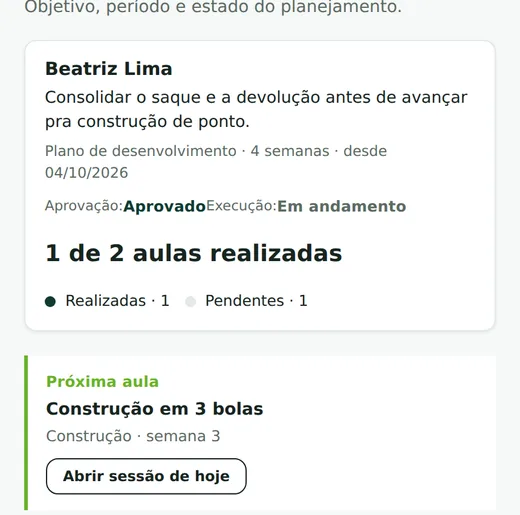
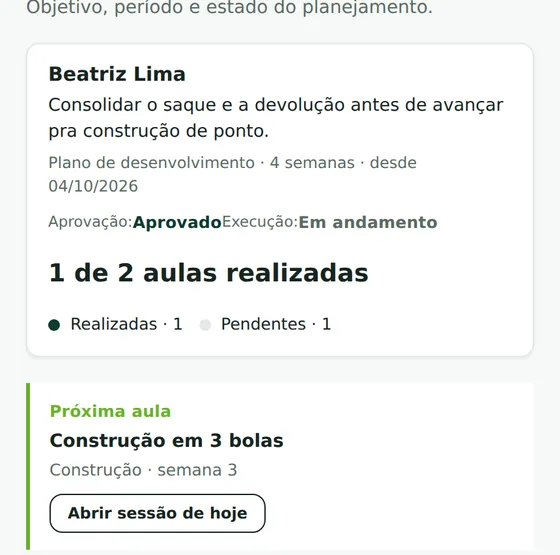
Hub: quadra ilustrada na abertura, telas reais em cada produto e ajustes das imagens
Claude-Session: https://claude.ai/code/session_01Tx4xHd7v5bcyt8Hsc2Wpr1

diff --git a/autonomo/hub/index.html b/autonomo/hub/index.html
@@ -69,11 +69,36 @@
         </div>
       </div>
       <div class="abertura-telas" aria-hidden="true">
-        <img class="tela-a" src="/hub/img/tela-hero-player.webp" width="360" height="735" alt="" decoding="async">
-        <img class="tela-b" src="/hub/img/tela-hero-comp.webp" width="360" height="779" alt="" decoding="async">
+        <svg class="quadra" viewBox="0 0 780 360" preserveAspectRatio="xMidYMid slice" aria-hidden="true" focusable="false">
+          <g fill="none" stroke-linecap="round" stroke-linejoin="round">
+            <rect class="l" x="4" y="4" width="772" height="352"/>
+            <line class="l" x1="4" y1="49" x2="776" y2="49"/><line class="l" x1="4" y1="311" x2="776" y2="311"/>
+            <line class="l" x1="180" y1="49" x2="180" y2="311"/><line class="l" x1="600" y1="49" x2="600" y2="311"/>
+            <line class="l" x1="180" y1="180" x2="600" y2="180"/>
+            <line class="rede" x1="390" y1="-6" x2="390" y2="366"/>
+            <path class="rota" d="M120 276 C 250 40, 470 20, 668 118"/>
+            <circle class="bola" cx="668" cy="118" r="11"/>
+          </g>
+        </svg>
+        <img class="tela-a" src="/hub/img/tela-player-inicio.webp" width="380" height="775" alt="" decoding="async">
+        <img class="tela-b" src="/hub/img/tela-comp-temporada.webp" width="380" height="822" alt="" decoding="async">
       </div>
     </div>
   </section>
+
+  <div class="faixa-quadra" aria-hidden="true">
+    <svg class="quadra faixa" viewBox="0 0 780 360" preserveAspectRatio="xMidYMid slice" aria-hidden="true" focusable="false">
+          <g fill="none" stroke-linecap="round" stroke-linejoin="round">
+            <rect class="l" x="4" y="4" width="772" height="352"/>
+            <line class="l" x1="4" y1="49" x2="776" y2="49"/><line class="l" x1="4" y1="311" x2="776" y2="311"/>
+            <line class="l" x1="180" y1="49" x2="180" y2="311"/><line class="l" x1="600" y1="49" x2="600" y2="311"/>
+            <line class="l" x1="180" y1="180" x2="600" y2="180"/>
+            <line class="rede" x1="390" y1="-6" x2="390" y2="366"/>
+            <path class="rota" d="M120 276 C 250 40, 470 20, 668 118"/>
+            <circle class="bola" cx="668" cy="118" r="11"/>
+          </g>
+        </svg>
+  </div>
 
   <section class="escolha" id="plataformas" aria-labelledby="titulo-plataformas">
     <div class="miolo">
@@ -115,6 +140,7 @@
           <h3>Entre em quadra com um plano.</h3>
           <p class="desc">Transforme suas características em uma estratégia de jogo e dê mais direção ao que você treina.</p>
         </div>
+        <figure class="produto-tela"><img src="/hub/img/tela-player-jogadas.webp" width="420" height="857" alt="Tela de jogadas do QuadraLab Player, com a sequência de golpes e quando usar" loading="lazy"><figcaption>Jogadas do Player (demonstração)</figcaption></figure>
         <div class="produto-corpo">
           <details class="beneficios">
             <summary>O que você encontra</summary>
@@ -141,6 +167,7 @@
           <h3>Seu olhar. Um plano para cada aluno.</h3>
           <p class="desc">Organize jogadores, prepare suas aulas e acompanhe cada ciclo com o seu olhar profissional.</p>
         </div>
+        <figure class="produto-tela"><img src="/hub/img/tela-treinador-planejamento.webp" width="560" height="555" alt="Tela de planejamento do QuadraLab Treinador, com as aulas realizadas e a próxima aula" loading="lazy"><figcaption>Planejamento do Treinador (demonstração)</figcaption></figure>
         <div class="produto-corpo">
           <details class="beneficios">
             <summary>O que você encontra</summary>
@@ -166,6 +193,7 @@
           <h3>Do calendário à preparação.</h3>
           <p class="desc">Organize sua temporada e acompanhe treinos e partidas com quem conhece o seu jogo.</p>
         </div>
+        <figure class="produto-tela"><img src="/hub/img/tela-comp-partida.webp" width="420" height="909" alt="Tela de partida do QuadraLab Competição, com dificuldades e pontos positivos" loading="lazy"><figcaption>Partida no Competição (demonstração)</figcaption></figure>
         <div class="produto-corpo">
           <details class="beneficios">
             <summary>O que você encontra</summary>
@@ -212,7 +240,7 @@
           <div class="painel-acao"><a class="botao botao-player" href="/player/">Conhecer o Player</a></div>
         </div>
         <div class="telas">
-          <figure class="tela"><img src="/hub/img/tela-player-inicio.webp" width="380" height="775" alt="Tela inicial do QuadraLab Player, com o próximo treino e a estratégia escolhida" loading="lazy"><figcaption>Início do Player</figcaption></figure>
+          <figure class="tela"><img src="/hub/img/tela-player-treinos.webp" width="380" height="775" alt="Tela de treinos do QuadraLab Player, com o próximo treino e os programas" loading="lazy"><figcaption>Treinos</figcaption></figure>
           <figure class="tela"><img src="/hub/img/tela-player-estrategias.webp" width="380" height="775" alt="Tela de estratégias do QuadraLab Player" loading="lazy"><figcaption>Estratégias</figcaption></figure>
         </div>
       </div>
@@ -228,7 +256,7 @@
           <div class="painel-acao"><a class="botao botao-treinador" href="/treinador">Conhecer o Treinador</a></div>
         </div>
         <div class="telas">
-          <figure class="tela larga"><img src="/hub/img/tela-treinador-planejamento.webp" width="520" height="515" alt="Tela de planejamento do QuadraLab Treinador, com as aulas realizadas e a próxima aula" loading="lazy"><figcaption>Planejamento do jogador</figcaption></figure>
+          <figure class="tela larga"><img src="/hub/img/tela-treinador-exercicios.webp" width="560" height="515" alt="Tela de sessão do QuadraLab Treinador, com os exercícios do aquecimento" loading="lazy"><figcaption>Sessão com os exercícios</figcaption></figure>
         </div>
       </div>
 
@@ -243,7 +271,7 @@
           <div class="painel-acao"><a class="botao botao-competicao" href="/competicao/">Conhecer o Competição</a></div>
         </div>
         <div class="telas">
-          <figure class="tela"><img src="/hub/img/tela-comp-temporada.webp" width="380" height="822" alt="Tela de temporada do QuadraLab Competição, com os próximos torneios" loading="lazy"><figcaption>Temporada</figcaption></figure>
+          <figure class="tela"><img src="/hub/img/tela-comp-hero.webp" width="380" height="822" alt="Tela inicial do QuadraLab Competição, com a contagem para o próximo torneio" loading="lazy"><figcaption>Início do Competição</figcaption></figure>
           <figure class="tela"><img src="/hub/img/tela-comp-semana.webp" width="380" height="822" alt="Tela de planejamento semanal do QuadraLab Competição" loading="lazy"><figcaption>Planejamento da semana</figcaption></figure>
         </div>
       </div>

diff --git a/autonomo/hub/hub.css b/autonomo/hub/hub.css
@@ -89,10 +89,17 @@ a { color: inherit; }
 .abertura h1 { font-size: clamp(3rem, 5vw, 4.25rem); line-height: 1.07; letter-spacing: -0.025em; margin-bottom: var(--e2); }
 .abertura .texto { font-size: 1.2rem; line-height: 1.6; color: var(--texto); max-width: 33ch; }
 .chamadas { display: flex; align-items: center; flex-wrap: wrap; gap: 8px 24px; margin-top: var(--e3); }
-.abertura-telas { position: relative; height: 530px; }
+.abertura-telas { position: relative; height: 560px; }
+.quadra { width: 100%; height: auto; display: block; border-radius: 14px; background: #e2eadb; }
+.quadra .l { stroke: #fff; stroke-width: 3; }
+.quadra .rede { stroke: #fff; stroke-width: 4; stroke-dasharray: 3 8; }
+.quadra .rota { stroke: var(--tinta); stroke-width: 3; stroke-dasharray: 9 9; opacity: .75; }
+.quadra .bola { fill: #fff; stroke: var(--tinta); stroke-width: 3; }
+.abertura-telas .quadra { position: absolute; left: 0; right: 0; top: 30px; width: 100%; height: 470px; }
+.faixa-quadra { display: none; }
 .abertura-telas img { position: absolute; width: 214px; height: auto; border-radius: 18px; border: 1px solid var(--linha-forte); background: #fff; }
-.abertura-telas .tela-a { left: 8%; top: 0; }
-.abertura-telas .tela-b { right: 8%; top: 56px; }
+.abertura-telas .tela-a { left: 9%; top: 0; }
+.abertura-telas .tela-b { right: 9%; top: 90px; }
 @media (max-width: 899px) {
   .abertura { padding-block: 32px 32px; }
   .abertura-grade { grid-template-columns: 1fr; gap: 0; }
@@ -102,6 +109,8 @@ a { color: inherit; }
   .chamadas .botao { width: 100%; }
   .chamadas .link { justify-content: center; }
   .abertura-telas { display: none; }
+  .faixa-quadra { display: block; padding-inline: max(20px, env(safe-area-inset-left, 0px)) max(20px, env(safe-area-inset-right, 0px)); max-width: 520px; margin: 0 auto 28px; }
+  .faixa-quadra .quadra { height: 112px; width: 100%; }
 }
 
 /* escolha das plataformas */
@@ -133,7 +142,7 @@ a { color: inherit; }
 @media (max-width: 899px) { .secao { padding-block: var(--e4); } .secao-cab { margin-bottom: var(--e3); } }
 
 /* produtos em detalhe */
-.produto { display: grid; grid-template-columns: minmax(0, 0.9fr) minmax(0, 1.1fr); gap: var(--e4); padding-block: var(--e4); border-top: 1px solid var(--linha-forte); }
+.produto { display: grid; grid-template-columns: minmax(0, 0.85fr) minmax(0, 0.7fr) minmax(0, 1.05fr); gap: var(--e4); align-items: start; padding-block: var(--e4); border-top: 1px solid var(--linha-forte); }
 .produto-nome { font-size: 14px; font-weight: 600; margin-bottom: 8px; }
 .produto[data-p="player"] .produto-nome { color: var(--player-texto); }
 .produto[data-p="treinador"] .produto-nome { color: var(--treinador-texto); }
@@ -157,11 +166,16 @@ a { color: inherit; }
 .acoes { display: flex; align-items: center; flex-wrap: wrap; gap: 4px 24px; }
 @media (max-width: 899px) {
   .produto { grid-template-columns: 1fr; gap: var(--e2); padding-block: var(--e3); }
+  .produto-tela { display: none; }
   .produto h3 { font-size: 22px; }
   .acoes { flex-direction: column; align-items: stretch; gap: 0; }
   .acoes .botao { width: 100%; }
   .acoes .link { justify-content: center; }
 }
+
+.produto-tela { margin: 0; border: 1px solid var(--linha-forte); border-radius: 14px; overflow: hidden; background: #fff; max-width: 250px; width: 100%; justify-self: center; }
+.produto-tela figcaption { font-size: 13px; color: var(--cinza); padding: 8px 12px; border-top: 1px solid var(--linha); }
+.produto[data-p="treinador"] .produto-tela { max-width: 300px; }
 
 /* abas */
 .abas { display: flex; flex-wrap: wrap; gap: 4px 24px; border-bottom: 1px solid var(--linha-forte); margin-bottom: var(--e4); }

diff --git a/autonomo/tests/smoke-hub.js b/autonomo/tests/smoke-hub.js
@@ -25,7 +25,7 @@ const porta = srv.address().port, base = "http://localhost:" + porta;
     const sobra = await p.evaluate(() => document.documentElement.scrollWidth - document.documentElement.clientWidth);
     assert(sobra <= 0, "rolagem horizontal em " + w + "px: " + sobra);
     /* nenhum elemento visível pode passar da tela (sem esconder com overflow no body) */
-    const fora = await p.evaluate(() => [...document.querySelectorAll("body *")].filter((e) => { const r = e.getBoundingClientRect(); return r.width > 0 && e.offsetParent !== null && !e.classList.contains("pular") && (r.right > innerWidth + 0.5 || r.left < -0.5); }).map((e) => e.tagName + "." + e.className).slice(0, 5));
+    const fora = await p.evaluate(() => [...document.querySelectorAll("body *")].filter((e) => { const r = e.getBoundingClientRect(); return r.width > 0 && e.offsetParent !== null && !e.classList.contains("pular") && !(e.closest("svg") && e.tagName.toLowerCase() !== "svg") && (r.right > innerWidth + 0.5 || r.left < -0.5); }).map((e) => e.tagName + "." + e.className).slice(0, 5));
     assert.deepStrictEqual(fora, [], "elementos fora da tela em " + w + "px");
     if (w < 900) {
       const alt = await p.evaluate(() => document.querySelector(".topo").getBoundingClientRect().height);
@@ -39,7 +39,7 @@ const porta = srv.address().port, base = "http://localhost:" + porta;
       assert(f.corpo >= 16 && f.corpo <= 17 && f.lh >= 1.5 && f.lh <= 1.7, "texto corrido 16-17 px, entrelinha ~1,6: " + JSON.stringify(f));
       assert(!(await p.isVisible(".abertura-telas")), "sem imagem alta atrasando os produtos no celular");
       const primeiro = await p.evaluate(() => document.querySelector(".rapido").getBoundingClientRect().top);
-      assert(primeiro < 700, "os produtos aparecem cedo (" + primeiro + ")");
+      assert(primeiro < 800, "os produtos aparecem cedo (" + primeiro + ")");
       const aberto = await p.evaluate(() => [...document.querySelectorAll("details.beneficios")].some((d) => d.open));
       assert(!aberto, "benefícios recolhidos no celular");
     } else {
